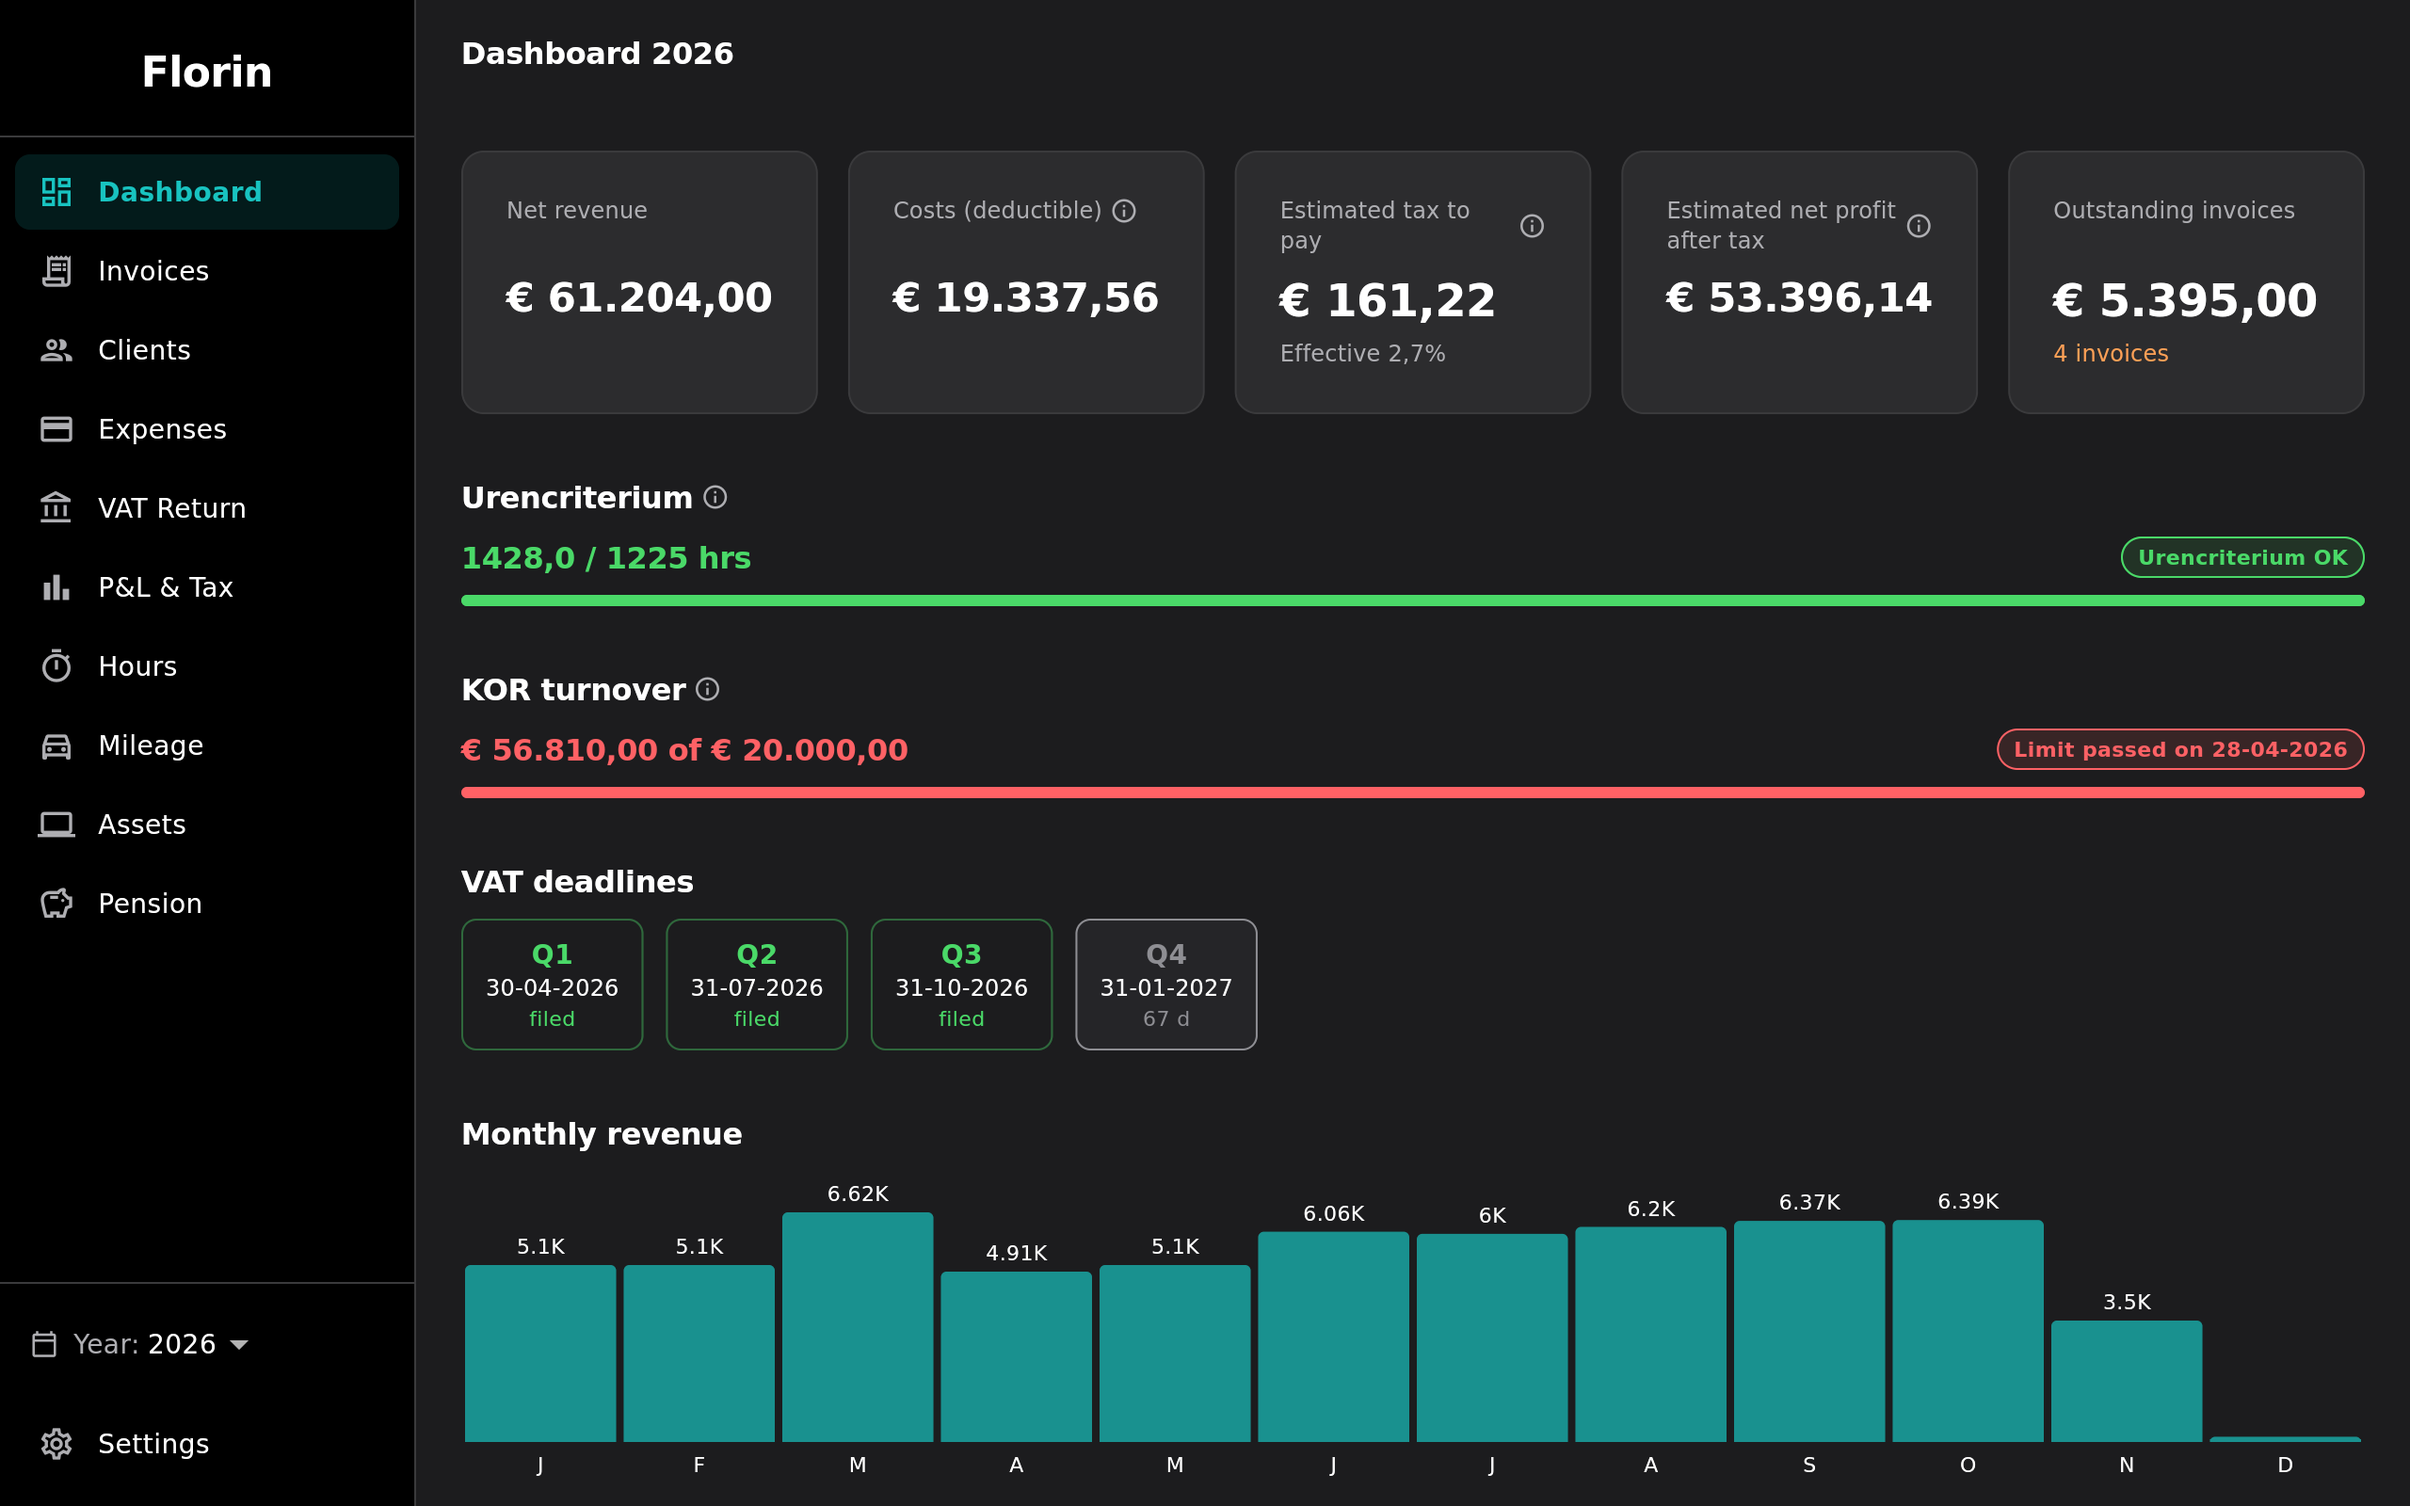
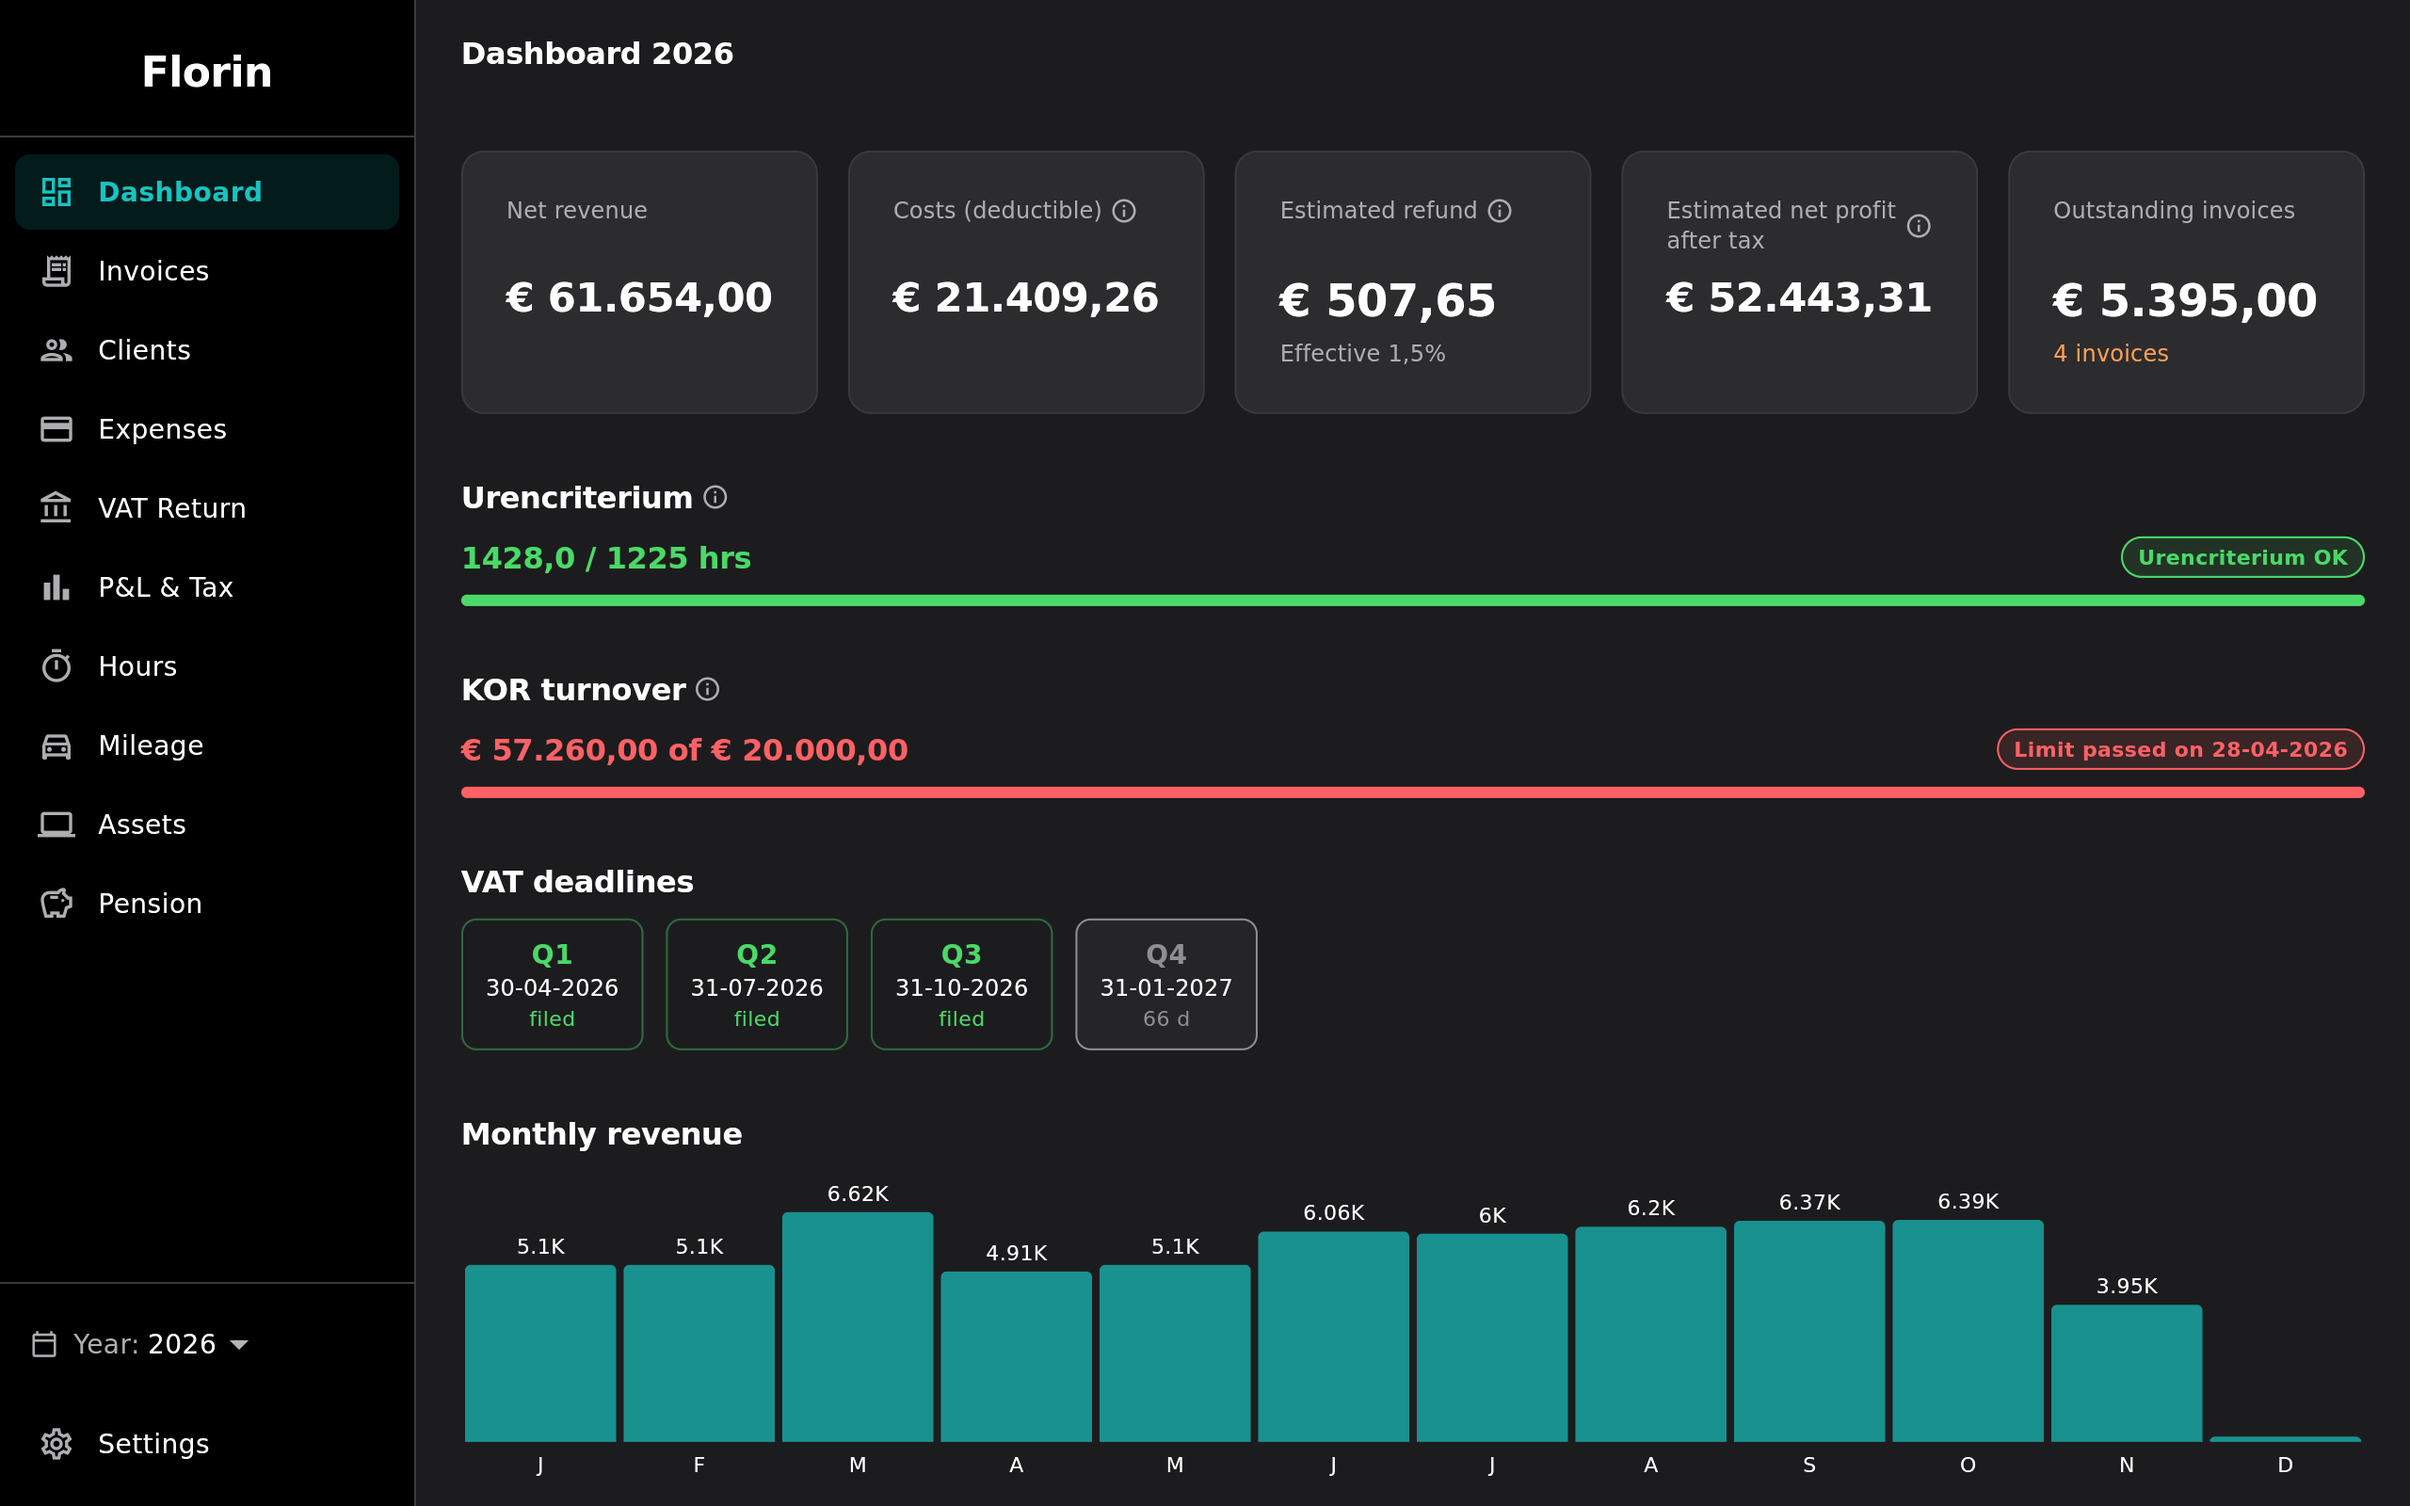
Close the demo's equity comparison and retake the screenshots
The demo's opening equity was a round guess, so the new balance sheet showed
a difference of over EUR 115.000 with the estimated profit and the demo
looked broken. The opening equity now follows from the demo's own figures,
and a demo test keeps the equity comparison equal to the estimated profit
when the demo data changes. The README dashboard screenshots are retaken
from the changed demo.

Claude-Session: https://claude.ai/code/session_014FR7ZeJYHm4jk5ZE1RQMZw

diff --git a/test/demo_coverage_test.dart b/test/demo_coverage_test.dart
@@ -4,6 +4,9 @@ import 'package:drift/native.dart';
 import 'package:florin/db/database.dart';
 import 'package:florin/services/car_service.dart';
 import 'package:florin/services/domain.dart';
+import 'package:florin/providers/providers.dart';
+import 'package:flutter_riverpod/flutter_riverpod.dart';
+import 'package:shared_preferences/shared_preferences.dart';
 import 'package:flutter_test/flutter_test.dart';
 
 import '../tool/create_demo_database.dart';
@@ -155,4 +158,33 @@ void main() {
     final hours = await db.select(db.hourEntries).get();
     expect(hours.any((h) => h.byPartner), isTrue);
   });
+
+  test(
+    'the demo\'s equity comparison closes on its estimated profit',
+    () async {
+      SharedPreferences.setMockInitialValues({});
+      final container = ProviderContainer(
+        overrides: [
+          sharedPreferencesProvider.overrideWithValue(
+            await SharedPreferences.getInstance(),
+          ),
+          databaseProvider.overrideWithValue(db),
+        ],
+      );
+      addTearDown(container.dispose);
+      final balance = container.listen(balanceSheetProvider(2026), (_, _) {});
+      final estimate = container.listen(taxEstimateProvider(2026), (_, _) {});
+      for (
+        var i = 0;
+        i < 300 && !(balance.read().hasValue && estimate.read().hasValue);
+        i++
+      ) {
+        await Future<void>.delayed(const Duration(milliseconds: 20));
+      }
+      expect(
+        balance.read().requireValue.equityProfit,
+        estimate.read().requireValue.result.grossProfit,
+      );
+    },
+  );
 }

diff --git a/tool/create_demo_database.dart b/tool/create_demo_database.dart
@@ -1024,7 +1024,8 @@ Future<void> fillDemo(AppDatabase db, {required String folder}) async {
       // Below the amount that makes it a deductible cost.
       partnerPay: Value(150000),
       // The year-end figures the records do not show.
-      equityStart: Value(1250000),
+      // Set so the equity comparison closes on the demo's own profit.
+      equityStart: Value(12762624),
       bankBalance: Value(1834500),
       cashBalance: Value(12000),
       unpaidPurchases: Value(48400),
